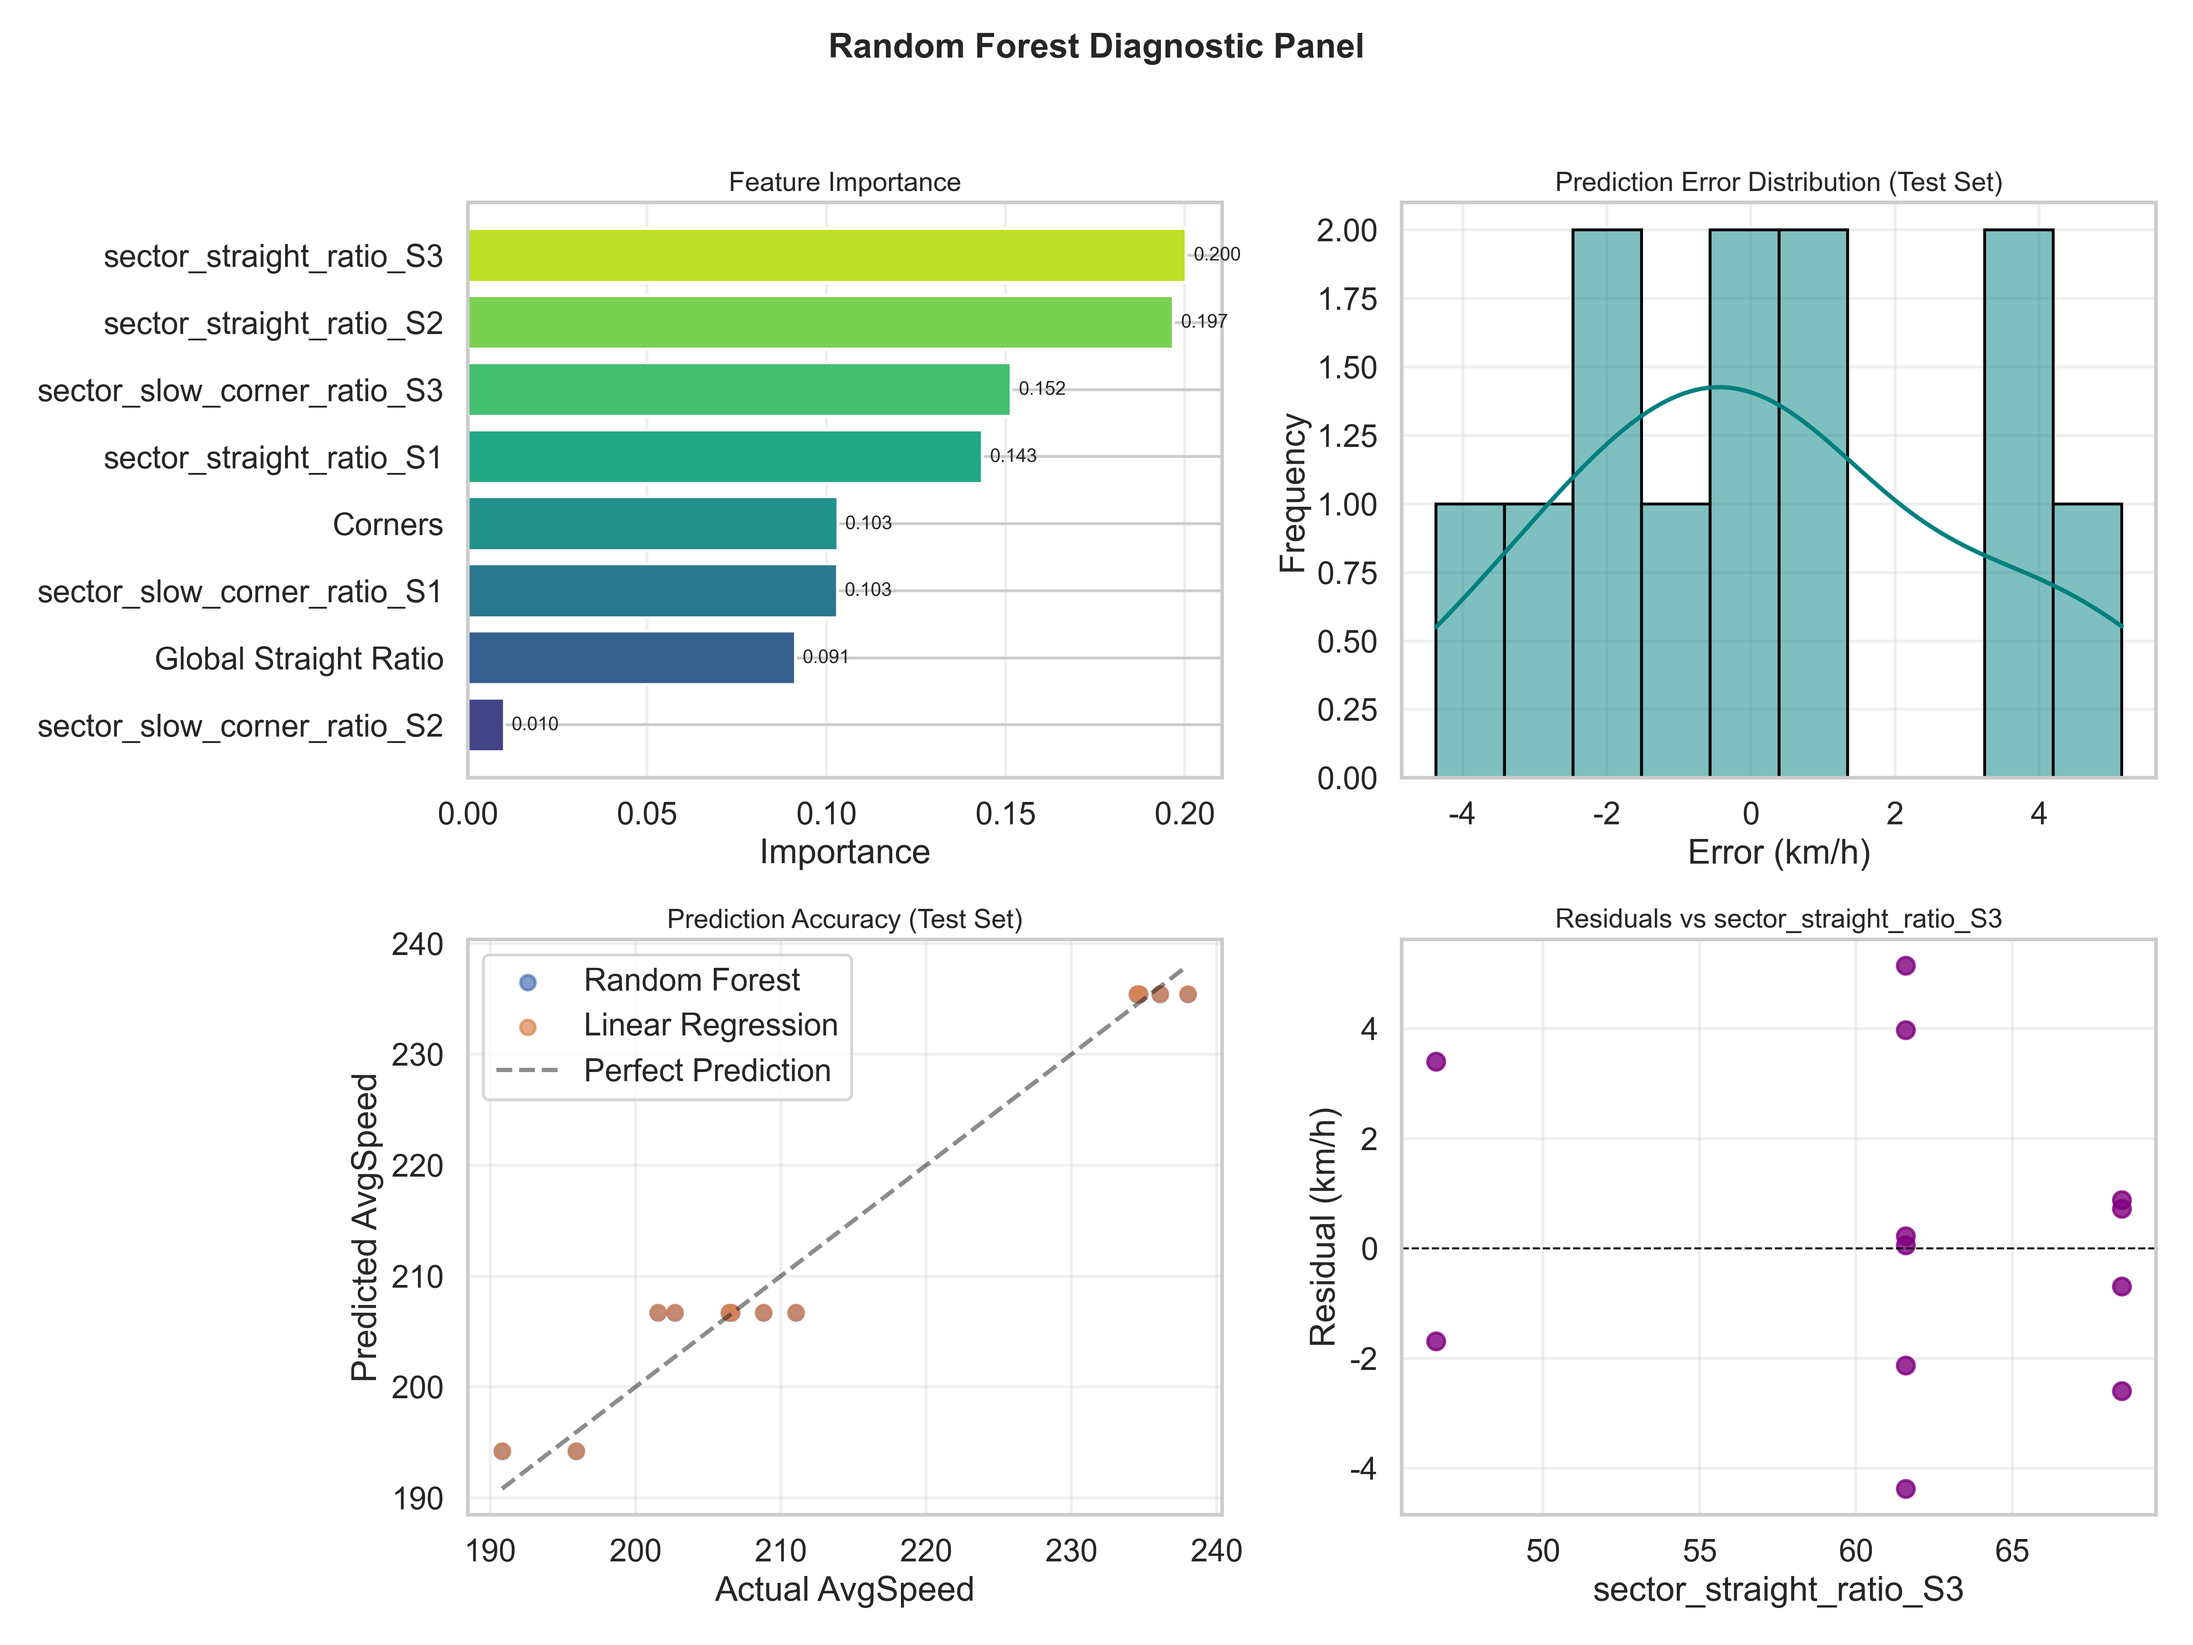
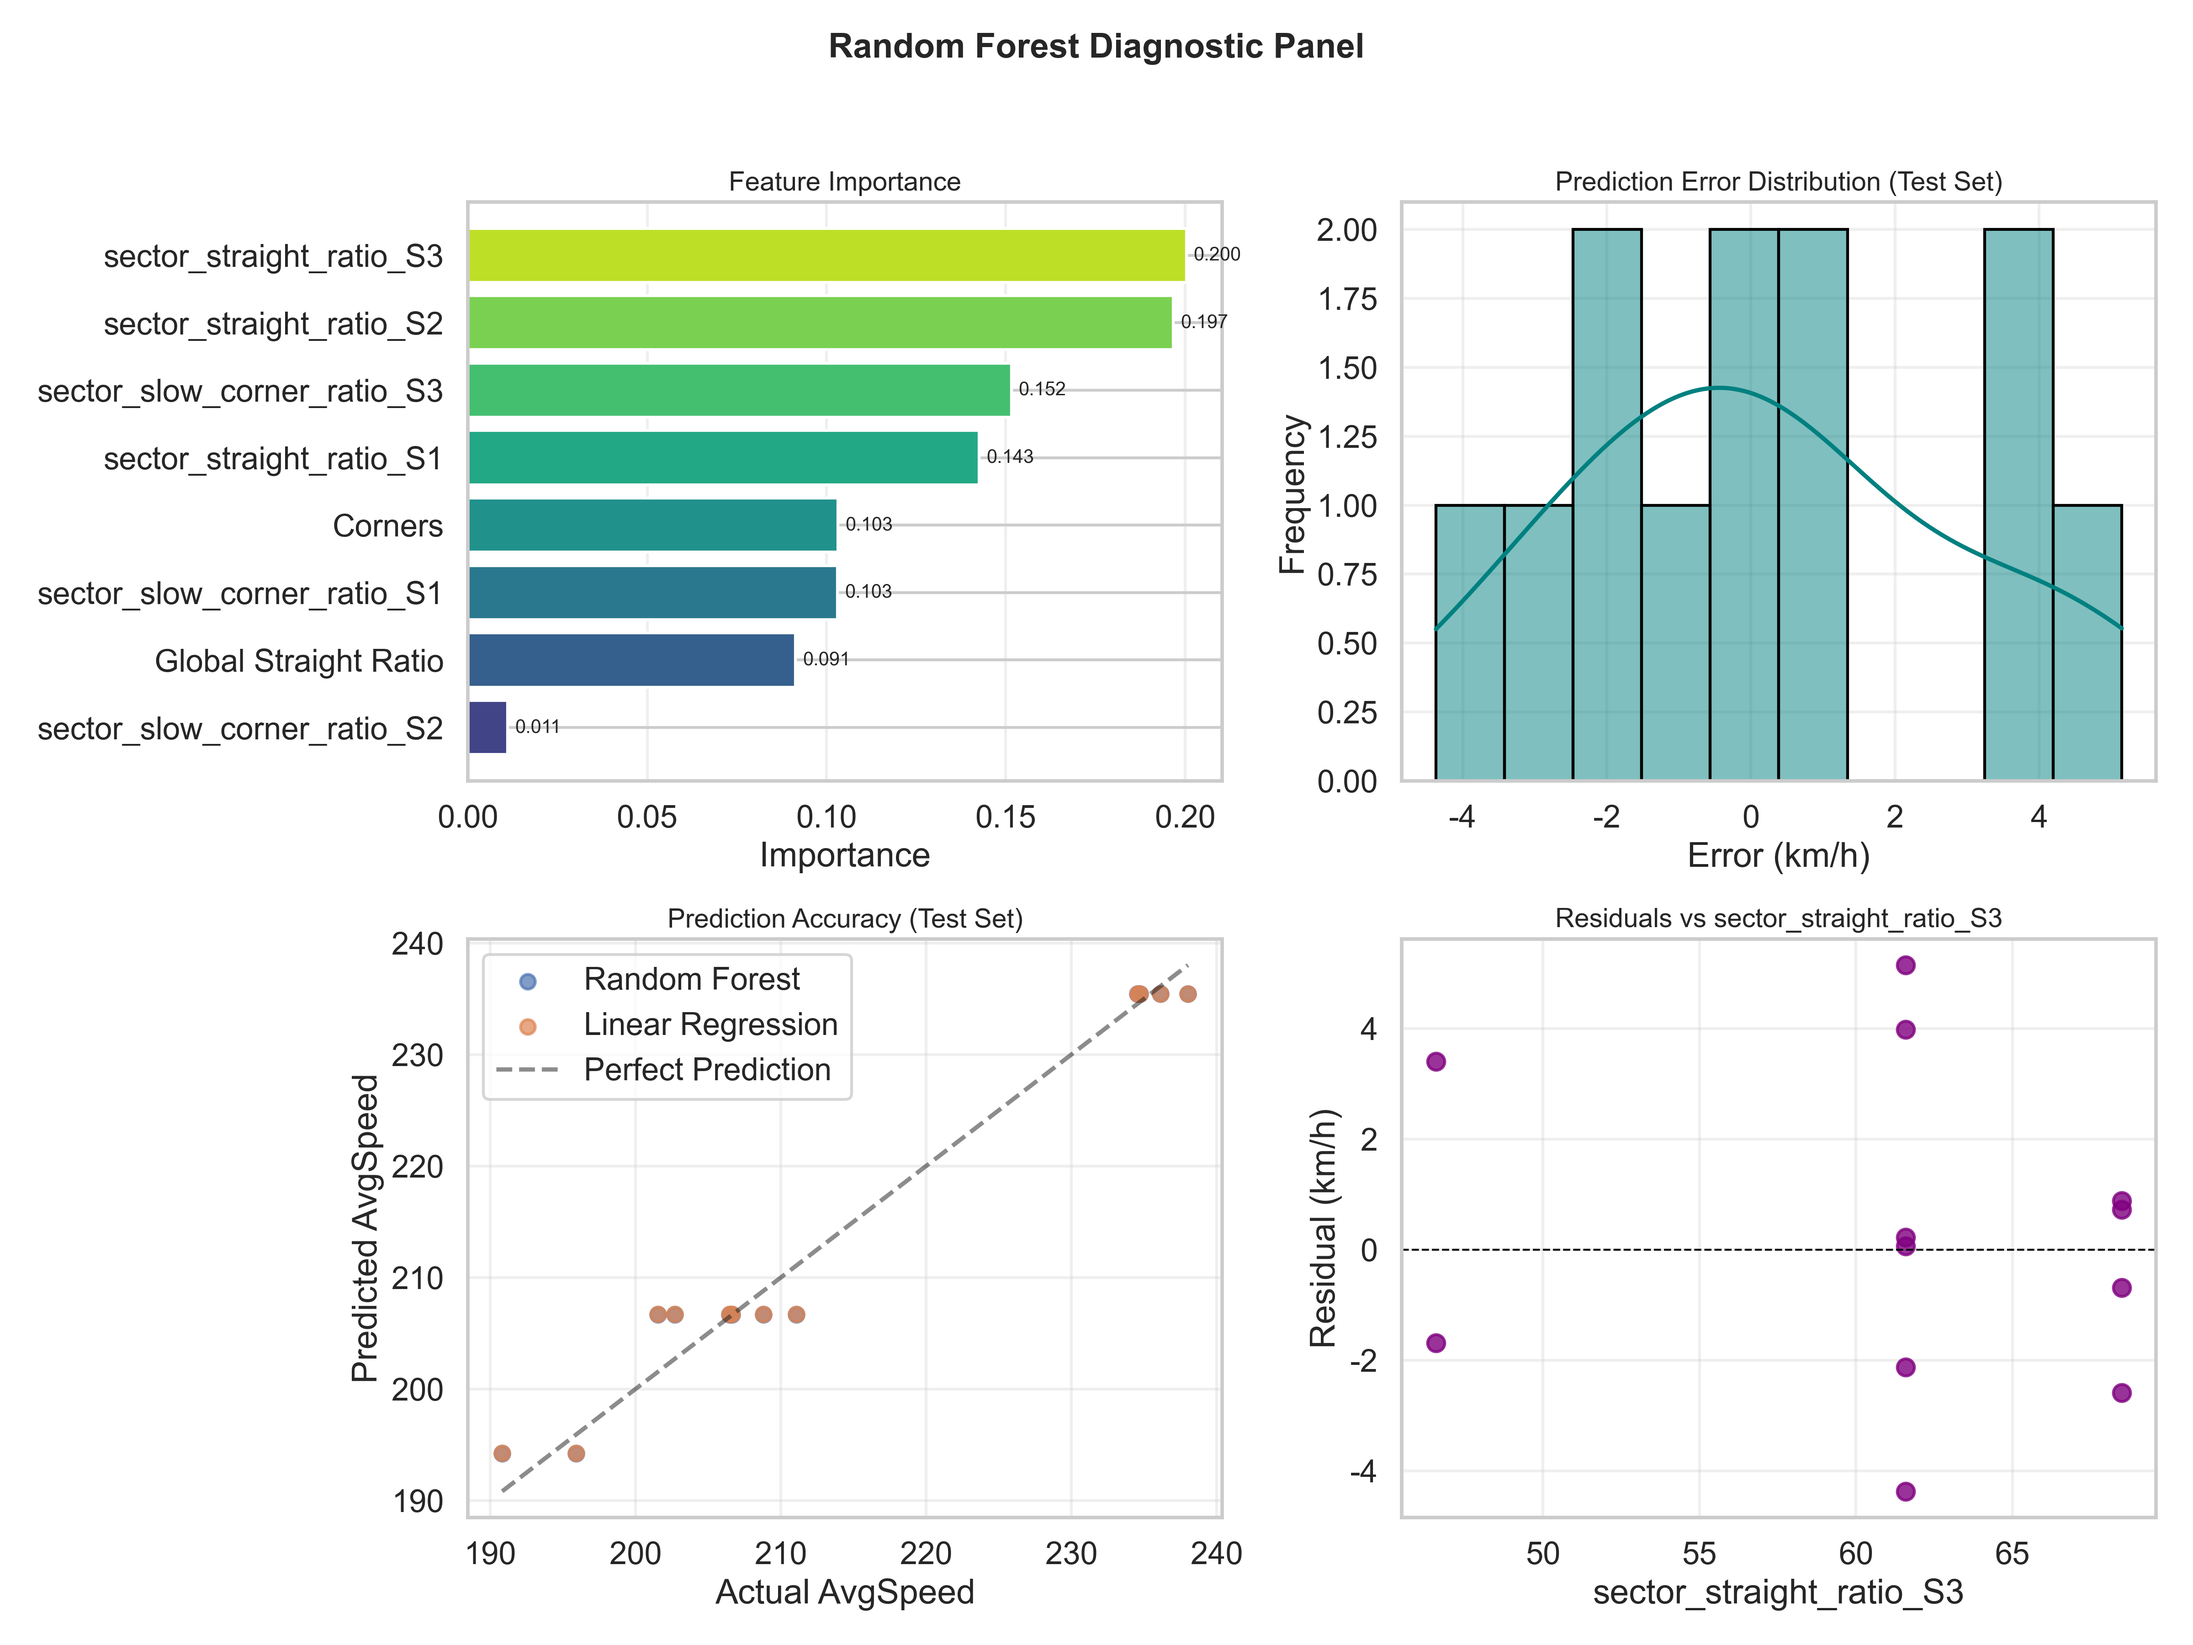
fix code and save all model

diff --git a/Optimization_and_Comparison.py b/Optimization_and_Comparison.py
@@ -1,0 +1,148 @@
+import pandas as pd
+import numpy as np
+import matplotlib.pyplot as plt
+import seaborn as sns
+from sklearn.model_selection import train_test_split, GridSearchCV
+from sklearn.linear_model import LinearRegression
+from sklearn.ensemble import RandomForestRegressor
+import xgboost as xgb
+from sklearn.metrics import mean_squared_error, r2_score
+import os
+
+# ==========================================
+# 0. 设置
+# ==========================================
+OUTPUT_FOLDER = 'visual'
+if not os.path.exists(OUTPUT_FOLDER): os.makedirs(OUTPUT_FOLDER)
+sns.set(style="whitegrid", context="talk")
+
+# 读取数据
+df = pd.read_csv('E:\Machine learning\ML-Analysis-of-F1-Fatest-Lap-Circuits\Data_Merge\f1_grand_dataset_full.csv')
+
+# 现场计算 AvgSpeed
+if 'sector_length_km_S1' in df.columns and 'LapTime' in df.columns:
+    total_len = df['sector_length_km_S1'] + df['sector_length_km_S2'] + df['sector_length_km_S3']
+    df['AvgSpeed'] = np.where(df['LapTime']>0, total_len / (df['LapTime']/3600), 0)
+    
+# ==========================================
+# 1. 准备数据
+# ==========================================
+features = [
+    'sector_straight_ratio_S1', 'sector_straight_ratio_S2', 'sector_straight_ratio_S3',
+    'sector_slow_corner_ratio_S1', 'sector_slow_corner_ratio_S2',
+    'sector_length_km_S1', 'sector_length_km_S2', 'sector_length_km_S3'
+]
+valid_cols = [c for c in features if c in df.columns]
+
+data = df[valid_cols + ['AvgSpeed']].dropna()
+data = data[data['AvgSpeed'] > 0]
+
+X = data[valid_cols]
+y = data['AvgSpeed']
+
+X_train, X_test, y_train, y_test = train_test_split(X, y, test_size=0.2, random_state=42)
+
+# 用于存储结果的列表
+results = []
+
+print("=== 🏁 开始模型大比拼 (Model Comparison) ===")
+
+# ==========================================
+# 模型 1: Linear Regression (Baseline)
+# ==========================================
+lr = LinearRegression()
+lr.fit(X_train, y_train)
+y_pred_lr = lr.predict(X_test)
+results.append({
+    'Model': 'Linear Baseline',
+    'R2': r2_score(y_test, y_pred_lr),
+    'RMSE': np.sqrt(mean_squared_error(y_test, y_pred_lr))
+})
+print(f"1. Linear Regression Done. (R2: {results[-1]['R2']:.4f})")
+
+# ==========================================
+# 模型 2: Random Forest (Default)
+# ==========================================
+rf = RandomForestRegressor(random_state=42)
+rf.fit(X_train, y_train)
+y_pred_rf = rf.predict(X_test)
+results.append({
+    'Model': 'Random Forest',
+    'R2': r2_score(y_test, y_pred_rf),
+    'RMSE': np.sqrt(mean_squared_error(y_test, y_pred_rf))
+})
+print(f"2. Random Forest Done. (R2: {results[-1]['R2']:.4f})")
+
+# ==========================================
+# 模型 3: XGBoost (Default)
+# ==========================================
+xg = xgb.XGBRegressor(random_state=42)
+xg.fit(X_train, y_train)
+y_pred_xg = xg.predict(X_test)
+results.append({
+    'Model': 'XGBoost (Default)',
+    'R2': r2_score(y_test, y_pred_xg),
+    'RMSE': np.sqrt(mean_squared_error(y_test, y_pred_xg))
+})
+print(f"3. XGBoost Default Done. (R2: {results[-1]['R2']:.4f})")
+
+# ==========================================
+# 模型 4: XGBoost + Grid Search (你的高光时刻!)
+# ==========================================
+print("\n🔍 正在进行网格搜索 (Grid Search)... 这可能需要一点时间...")
+
+# 定义要尝试的参数网格
+param_grid = {
+    'n_estimators': [50, 100, 200],     # 多少棵树
+    'learning_rate': [0.01, 0.1, 0.2],  # 学习率
+    'max_depth': [3, 5, 7],             # 树的深度
+    'subsample': [0.8, 1.0]             # 采样比例
+}
+
+# 启动搜索
+grid_search = GridSearchCV(estimator=xgb.XGBRegressor(random_state=42),
+                           param_grid=param_grid,
+                           cv=3, # 3折交叉验证
+                           n_jobs=-1, #以此电脑全力跑
+                           verbose=0)
+
+grid_search.fit(X_train, y_train)
+
+# 获取最佳模型
+best_xgb = grid_search.best_estimator_
+y_pred_best = best_xgb.predict(X_test)
+
+results.append({
+    'Model': 'XGBoost (Tuned)',
+    'R2': r2_score(y_test, y_pred_best),
+    'RMSE': np.sqrt(mean_squared_error(y_test, y_pred_best))
+})
+
+print(f"4. ✅ Grid Search 完成!")
+print(f"   最佳参数: {grid_search.best_params_}")
+print(f"   最佳 R2: {results[-1]['R2']:.4f}")
+
+# ==========================================
+# 5. 可视化对比 (生成最终结论图)
+# ==========================================
+results_df = pd.DataFrame(results)
+
+# 画对比图
+plt.figure(figsize=(10, 6))
+ax = sns.barplot(data=results_df, x='Model', y='R2', palette='magma')
+plt.title('Final Model Comparison: R² Score', fontsize=16, weight='bold')
+plt.ylim(0.8, 1.0) # 设置Y轴范围，让差异更明显
+plt.ylabel('R² Score (Higher is Better)')
+plt.xlabel('')
+
+# 在柱子上标数值
+for i, v in enumerate(results_df['R2']):
+    ax.text(i, v + 0.005, f"{v:.4f}", ha='center', fontsize=12, weight='bold')
+
+save_path = f"{OUTPUT_FOLDER}/Viz_6_Model_Comparison.png"
+plt.savefig(save_path, dpi=300)
+print(f"\n🏆 对比图已保存: {save_path}")
+
+# 打印最终表格供报告使用
+print("\n=== 最终成绩单 (Copy to Report) ===")
+print(results_df)

diff --git a/model/RandomForest/Code_RandomForest.py b/model/RandomForest/Code_RandomForest.py
@@ -7,6 +7,7 @@ from sklearn.linear_model import LinearRegression
 import matplotlib.pyplot as plt
 import seaborn as sns
 import os
+import joblib
 
 # ============================================================================
 # Configuration
@@ -181,6 +182,9 @@ def train_random_forest(X_train, X_test, y_train, y_test, feature_names):
         'feature_names': feature_names,
         'feature_importance': rf_model.feature_importances_
     }
+        
+    model_save_path = 'E:\Machine learning\ML-Analysis-of-F1-Fatest-Lap-Circuits\model\RandomForest_model.pkl'
+    joblib.dump(rf_model, model_save_path)
     
     return metrics
 
@@ -293,14 +297,10 @@ def plot_feature_importance(metrics):
     
 
 def plot_diagnostic_panel(rf_metrics, baseline_metrics, y_test, feature_names, X_test):
-    """
-    综合诊断面板：特征重要性、误差分布、预测对比、残差分析
-    """
     print("\nGenerating diagnostic_panel.png ...")
     fig, axes = plt.subplots(2, 2, figsize=(16, 12))
     fig.suptitle('Random Forest Diagnostic Panel', fontsize=18, fontweight='bold', y=0.98)
 
-    # 1. 特征重要性
     importance_df = pd.DataFrame({
         'Feature': feature_names,
         'Importance': rf_metrics['feature_importance']
@@ -314,7 +314,6 @@ def plot_diagnostic_panel(rf_metrics, baseline_metrics, y_test, feature_names, X
         ax.text(v + 0.002, i, f'{v:.3f}', va='center', fontsize=10)
     ax.grid(axis='x', alpha=0.3)
 
-    # 2. 误差分布
     errors = rf_metrics['y_test_pred'] - y_test
     ax = axes[0, 1]
     sns.histplot(errors, bins=10, kde=True, color='teal', edgecolor='black', ax=ax)
@@ -323,7 +322,6 @@ def plot_diagnostic_panel(rf_metrics, baseline_metrics, y_test, feature_names, X
     ax.set_ylabel('Frequency')
     ax.grid(alpha=0.3)
 
-    # 3. 预测对比
     ax = axes[1, 0]
     ax.scatter(y_test, rf_metrics['y_test_pred'], alpha=0.7, label='Random Forest', s=60)
     ax.scatter(y_test, baseline_metrics['y_test_pred'], alpha=0.7, label='Linear Regression', s=60)
@@ -336,7 +334,6 @@ def plot_diagnostic_panel(rf_metrics, baseline_metrics, y_test, feature_names, X
     ax.legend()
     ax.grid(alpha=0.3)
 
-    # 4. 残差与最重要特征
     importances = rf_metrics['feature_importance']
     top_idx = np.argsort(importances)[-1]
     top_feat = feature_names[top_idx]
@@ -356,12 +353,8 @@ def plot_diagnostic_panel(rf_metrics, baseline_metrics, y_test, feature_names, X
     print(f"✓ Saved: {fname}")
 
 def plot_trend_panel(X_train, y_train, X_test, y_test, feature_names):
-    """
-    选取最重要的2个特征，展示趋势分析
-    """
     print("\nGenerating trend_panel.png ...")
     importances = [np.std(X_train[feat]) for feat in feature_names]
-    # 这里用标准差选2个变化最大的特征（也可用重要性）
     top2 = np.argsort(importances)[-2:][::-1]
     fig, axes = plt.subplots(1, 2, figsize=(14, 6))
     for i, idx in enumerate(top2):
@@ -385,9 +378,6 @@ def plot_trend_panel(X_train, y_train, X_test, y_test, feature_names):
     print(f"✓ Saved: {fname}")
 
 def plot_partial_dependence_panel(rf_model, X_train, feature_names):
-    """
-    只对最重要的2个特征做部分依赖图
-    """
     print("\nGenerating partial_dependence_panel.png ...")
     from sklearn.inspection import PartialDependenceDisplay
     importances = rf_model.feature_importances_

diff --git a/model/baseline.py b/model/baseline.py
@@ -6,6 +6,7 @@ from sklearn.model_selection import train_test_split
 from sklearn.linear_model import LinearRegression
 from sklearn.metrics import r2_score
 import os
+import joblib
 
 # Settings
 OUTPUT_FOLDER = 'visual'
@@ -15,7 +16,7 @@ sns.set(style="whitegrid", context="talk")
 plt.rcParams['axes.unicode_minus'] = False 
 
 # Load data
-df = pd.read_csv('f1_grand_dataset_full.csv')
+df = pd.read_csv('E:\\Machine learning\\ML-Analysis-of-F1-Fatest-Lap-Circuits\\Data_Merge\\f1_grand_dataset_full.csv')
 
 # Print column names
 print("=== Data Columns List ===")
@@ -84,3 +85,5 @@ save_path = f"{OUTPUT_FOLDER}/Viz_5_Feature_Impact.png"
 plt.savefig(save_path, dpi=300)
 print(f"Success: Analysis complete! Feature importance plot saved: {save_path}")
 print(f"New R² (for speed): {r2:.3f}")
+model_save_path = 'E:\\Machine learning\\ML-Analysis-of-F1-Fatest-Lap-Circuits\\model\\baseline.pkl'
+joblib.dump(model, model_save_path)

diff --git a/model/XGBOOST/Code XGBOOST.py b/model/XGBOOST/Code XGBOOST.py
@@ -8,6 +8,7 @@ from sklearn.preprocessing import StandardScaler
 import xgboost as xgb
 import warnings
 warnings.filterwarnings('ignore')
+import joblib
 
 # Configuration
 plt.style.use('seaborn-v0_8-darkgrid')
@@ -18,7 +19,7 @@ print("Analyse XGBOOST F1")
 print("\n")
 
 # Loading data
-df = pd.read_csv('f1_grand_dataset_full.csv')
+df = pd.read_csv('E:\\Machine learning\\ML-Analysis-of-F1-Fatest-Lap-Circuits\\Data_Merge\\f1_grand_dataset_full.csv')
 
 
 # Principales features
@@ -276,3 +277,5 @@ else:
 
 
 print(f"XGBOOST analysis finished")
+model_save_path = 'E:\\Machine learning\\ML-Analysis-of-F1-Fatest-Lap-Circuits\\model\\best_xgboost_model.pkl'
+joblib.dump(model, model_save_path)
